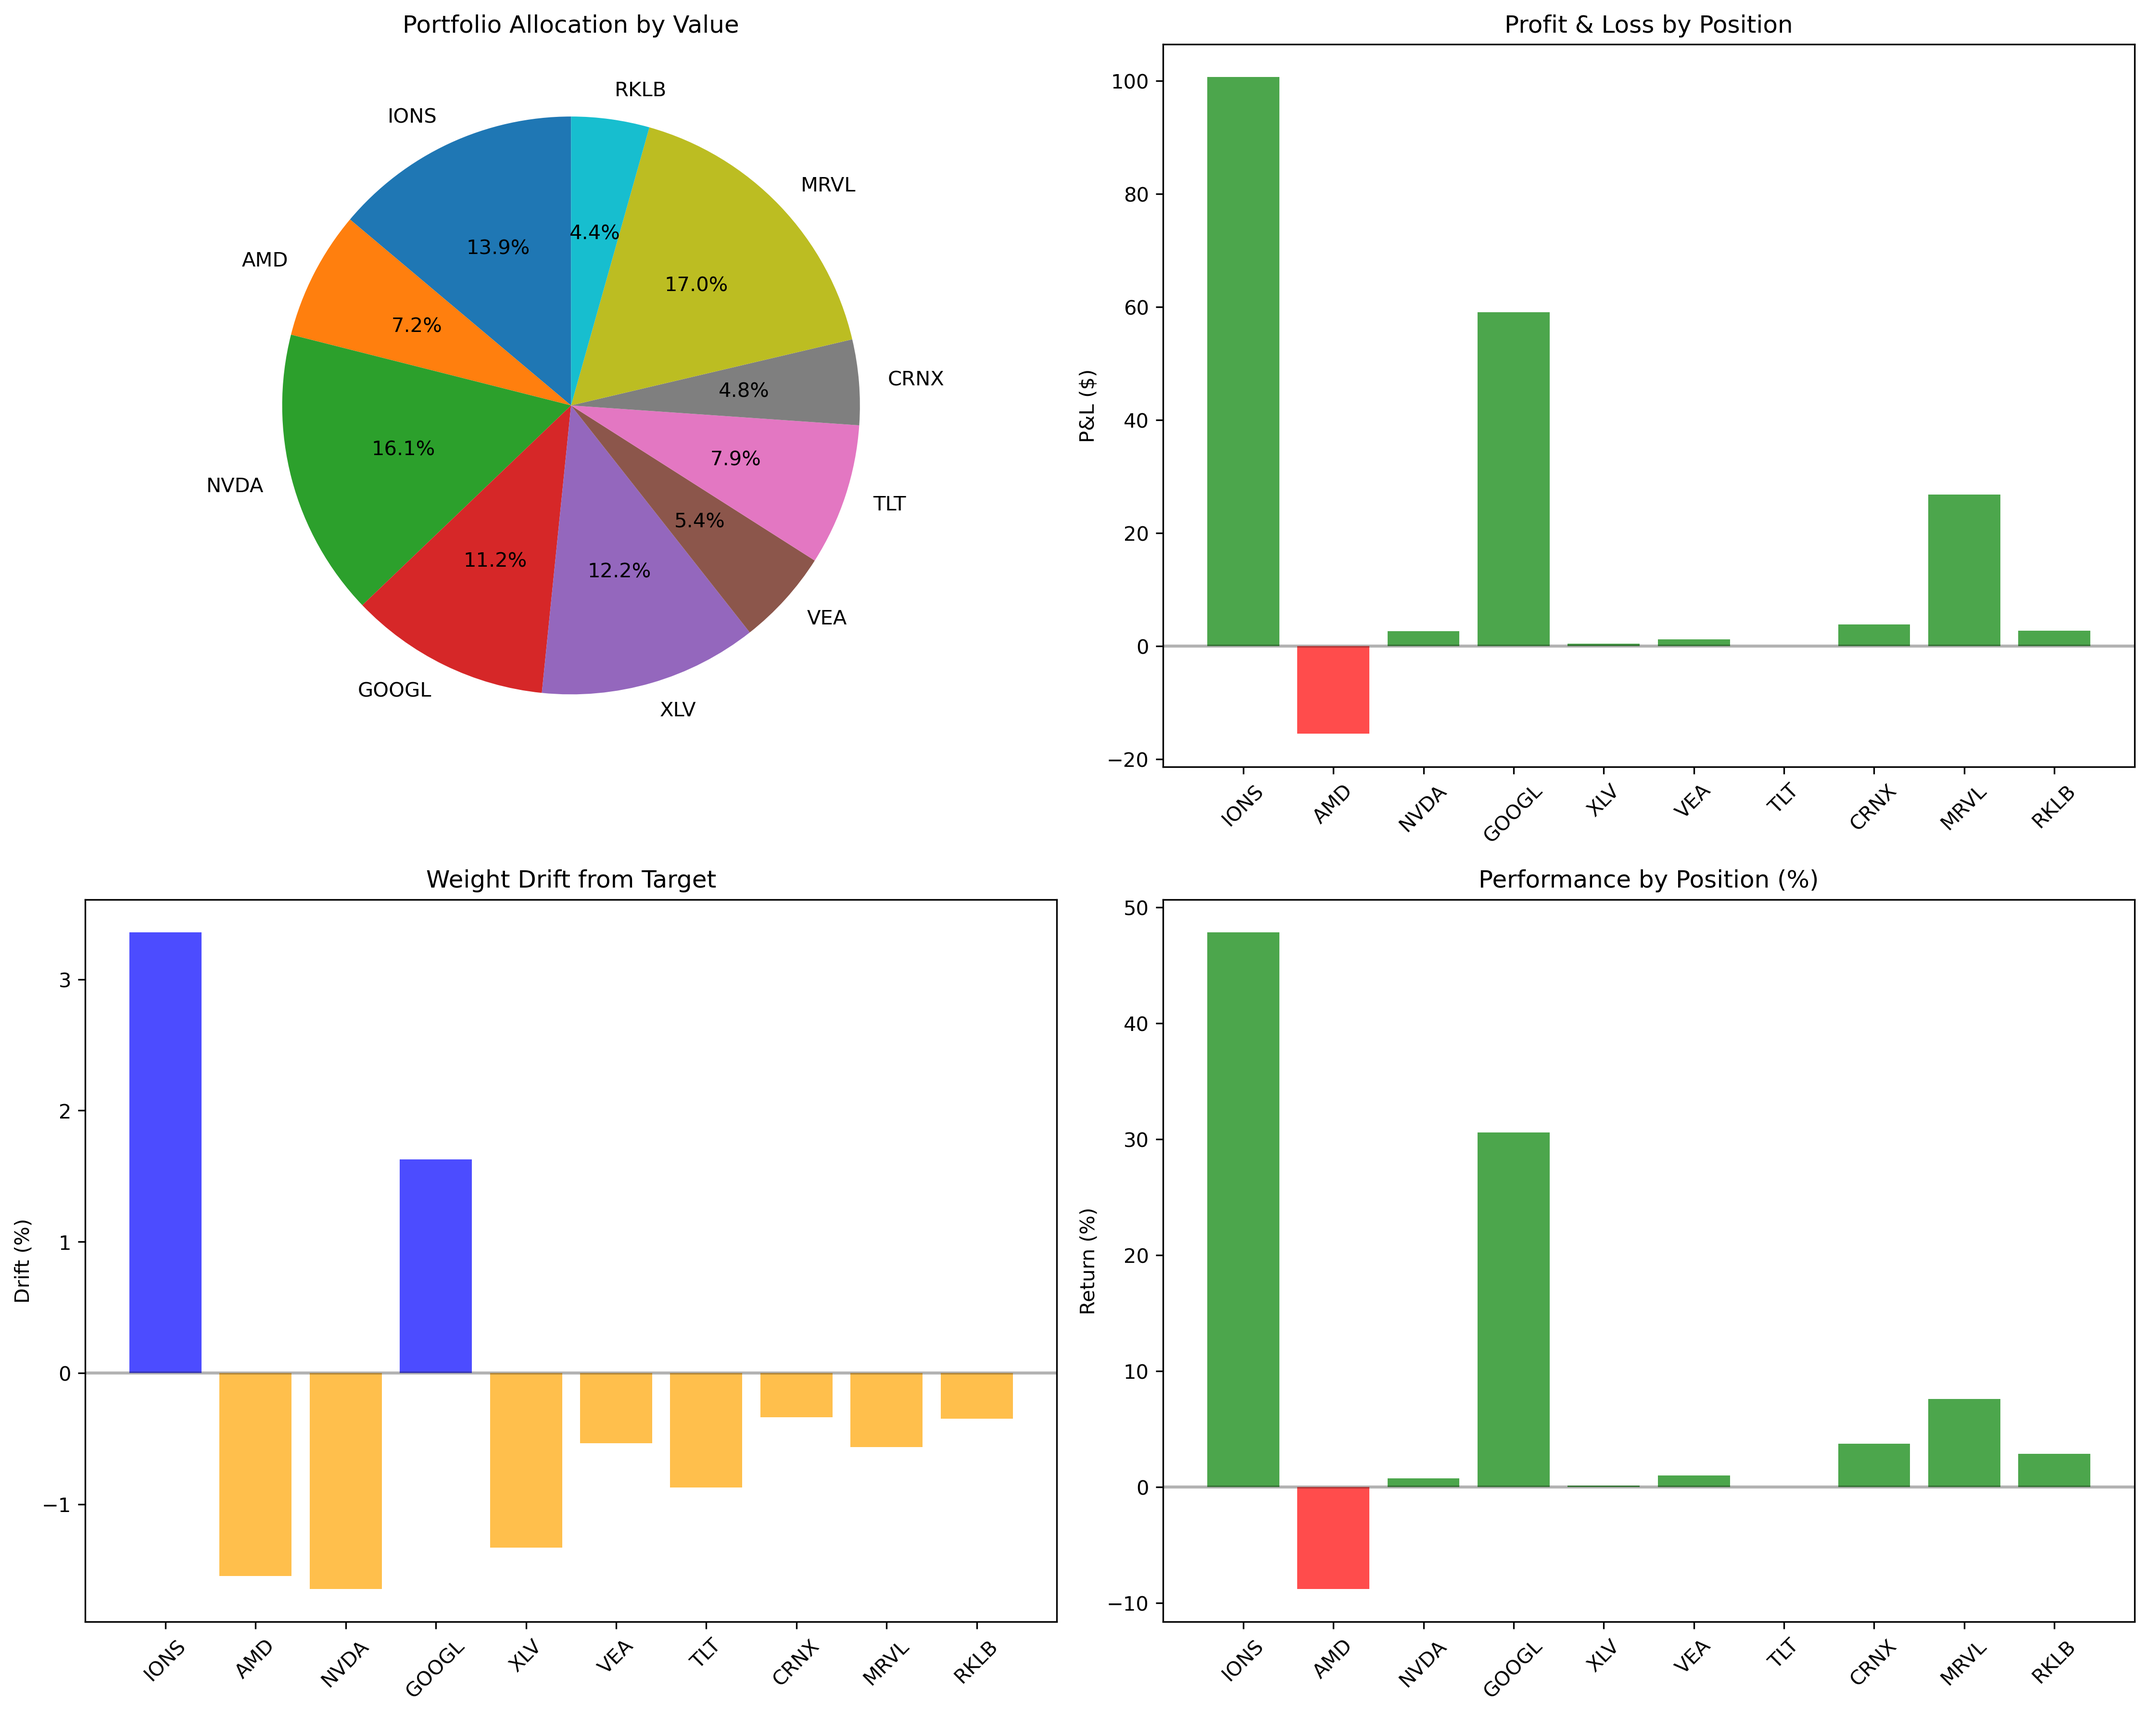
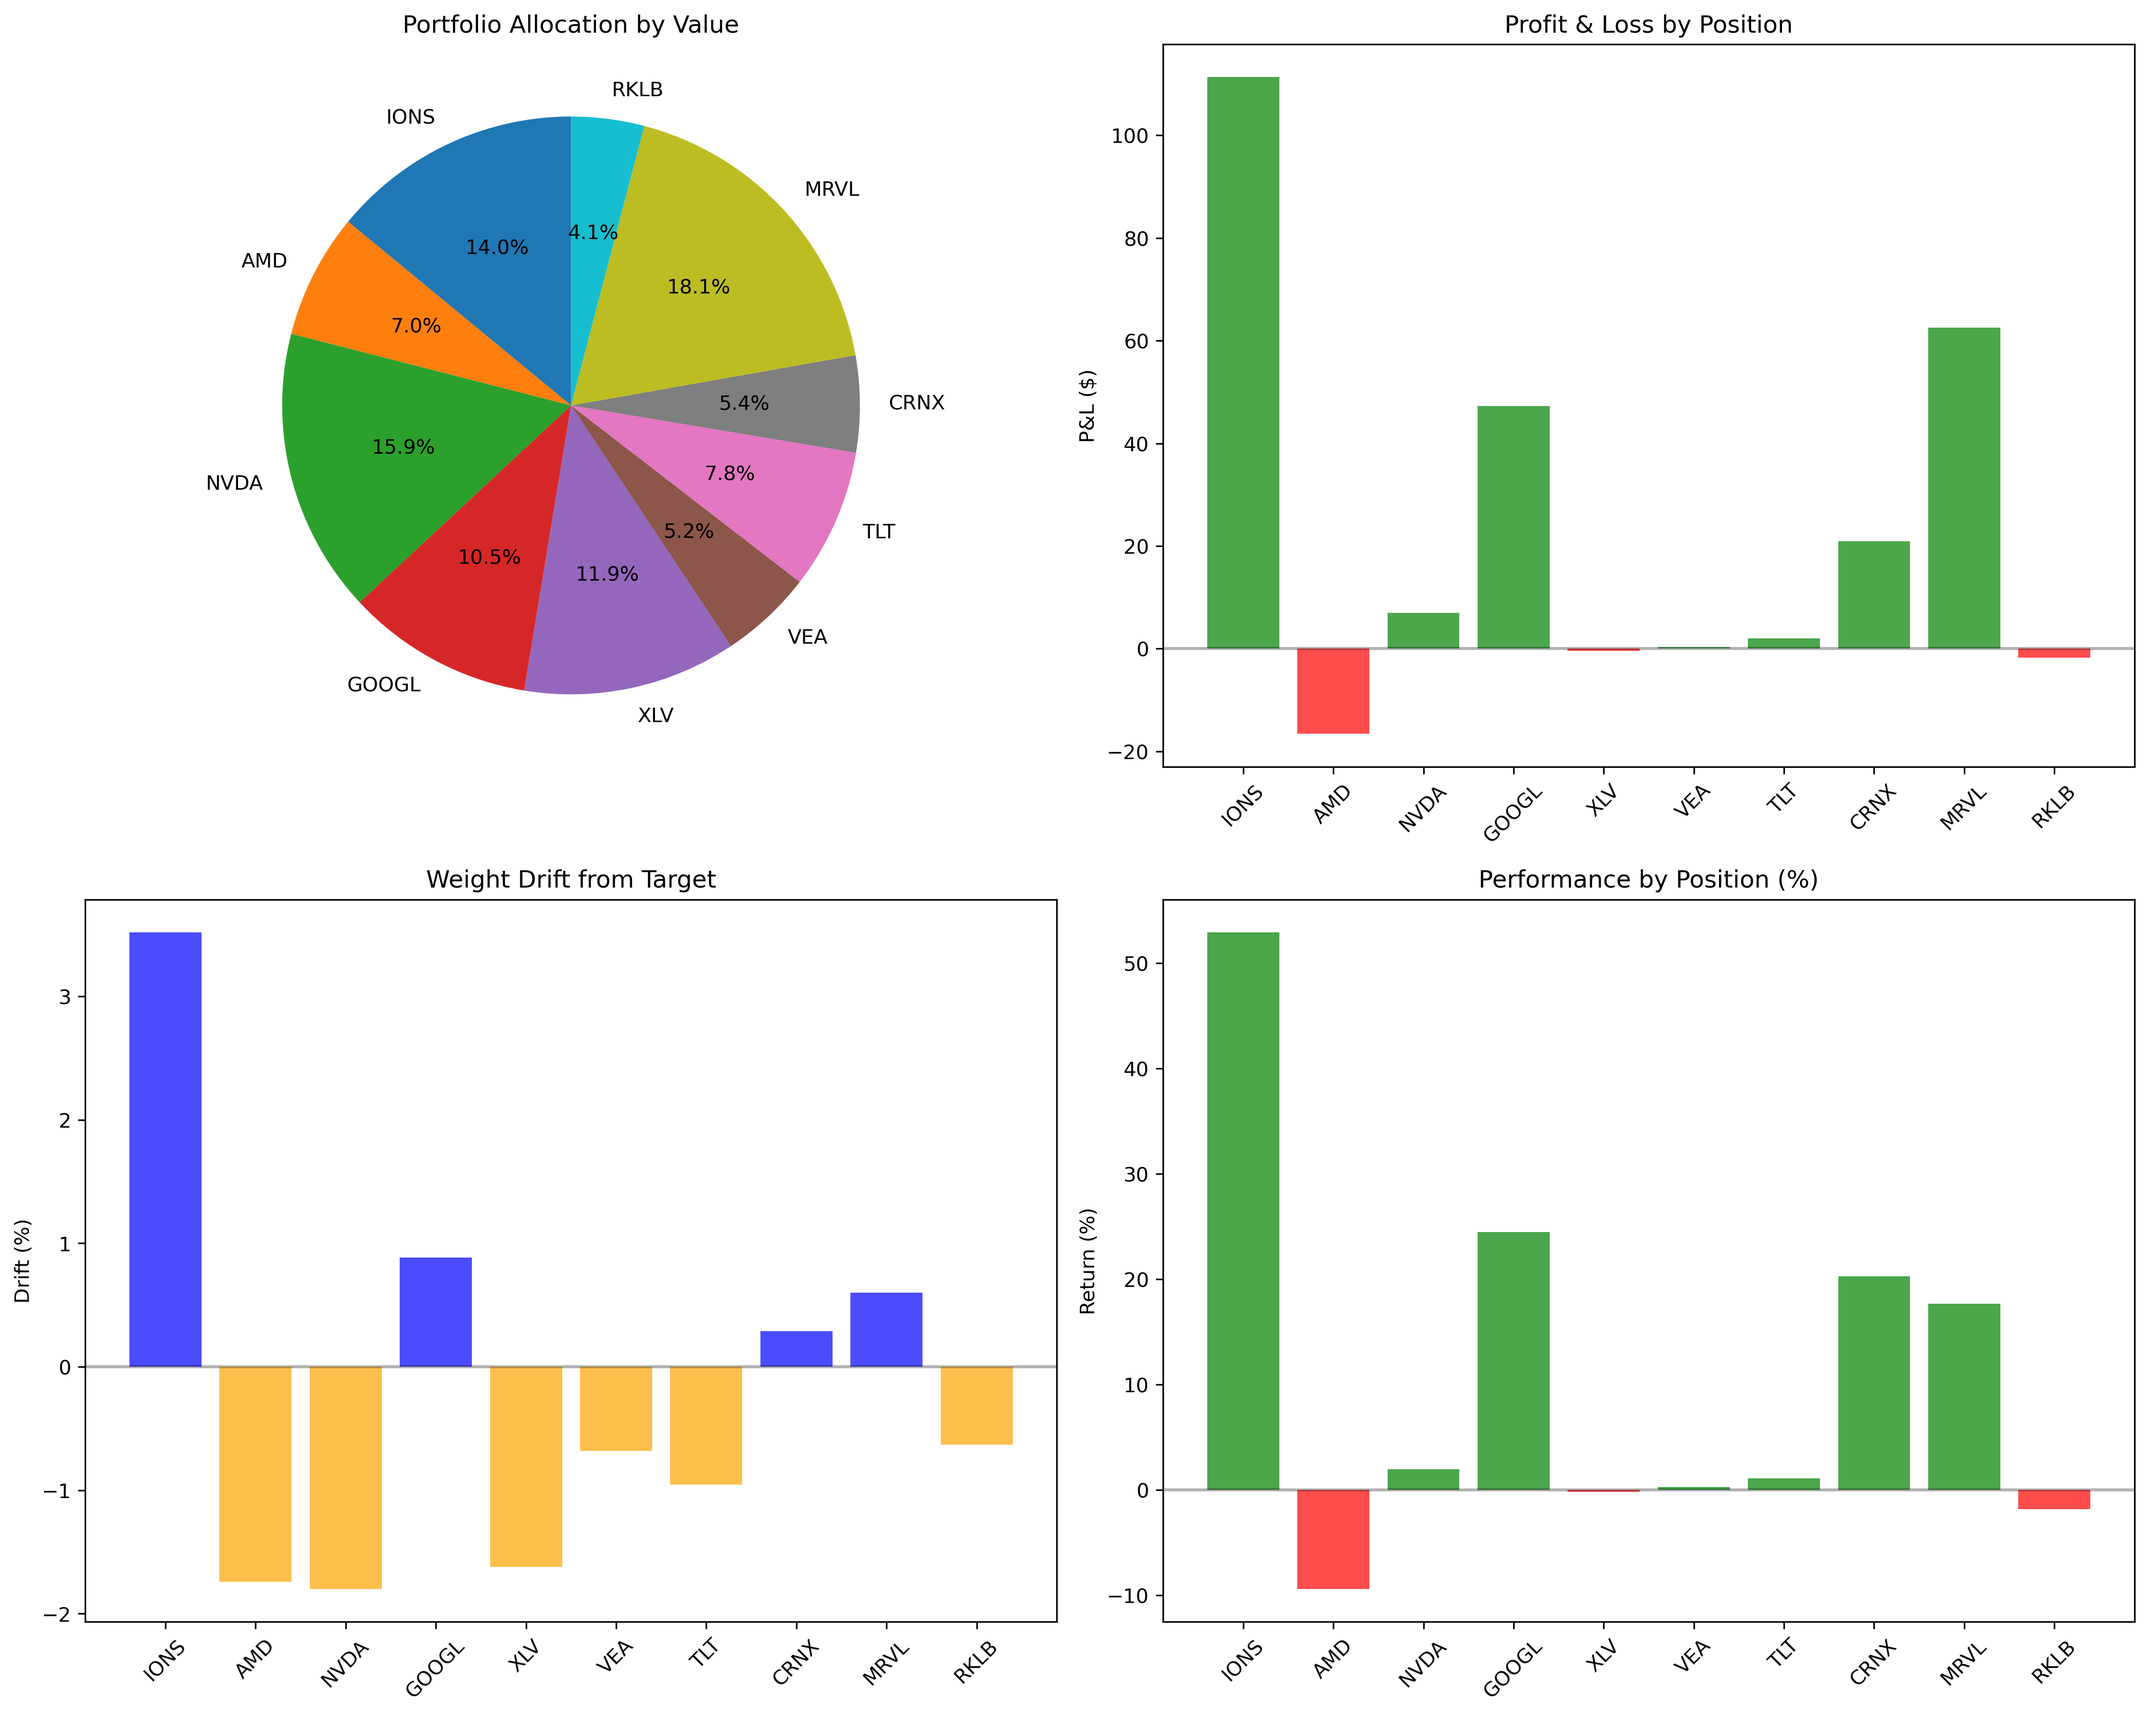
New daily run

diff --git a/Trading/LLM Managed Portfolio/daily_portfolio_analysis.md b/Trading/LLM Managed Portfolio/daily_portfolio_analysis.md
@@ -1,89 +1,92 @@
-# Daily Portfolio Analysis - 2025-09-23
+# Daily Portfolio Analysis - 2025-09-30
 
 ## Executive Summary
-- **Total Portfolio Value**: $2,292.81
-- **Total P&L**: $+292.81 (+14.64%)
+- **Total Portfolio Value**: $2,343.75
+- **Total P&L**: $+343.75 (+17.19%)
 - **Cash Position**: $50.22
 - **Active Positions**: 10
 
 ## Benchmark Comparison
-- **Portfolio Return**: +14.6%
+- **Portfolio Return**: +17.2%
 - **SPY Benchmark**: +3.4%
 - **IWM Benchmark**: +7.5%
 
 ## Position Analysis
 ### IONS
 - Shares: 5
-- Current Price: $62.21
-- P&L: $+100.68 (+47.86%)
-- Portfolio Weight: 13.6%
-- Weight Drift: +3.4%
+- Current Price: $64.34
+- P&L: $+111.35 (+52.93%)
+- Portfolio Weight: 13.7%
+- Weight Drift: +3.5%
 
 ### AMD
 - Shares: 1
-- Current Price: $161.25
-- P&L: $-15.53 (-8.78%)
-- Portfolio Weight: 7.0%
-- Weight Drift: -1.5%
+- Current Price: $160.20
+- P&L: $-16.58 (-9.38%)
+- Portfolio Weight: 6.8%
+- Weight Drift: -1.7%
 
 ### NVDA
 - Shares: 2
-- Current Price: $180.38
-- P&L: $+2.61 (+0.73%)
-- Portfolio Weight: 15.7%
-- Weight Drift: -1.6%
+- Current Price: $182.58
+- P&L: $+7.00 (+1.95%)
+- Portfolio Weight: 15.6%
+- Weight Drift: -1.8%
 
 ### GOOGL
 - Shares: 1
-- Current Price: $252.04
-- P&L: $+59.04 (+30.59%)
-- Portfolio Weight: 11.0%
-- Weight Drift: +1.6%
+- Current Price: $240.25
+- P&L: $+47.25 (+24.48%)
+- Portfolio Weight: 10.3%
+- Weight Drift: +0.9%
 
 ### XLV
 - Shares: 2
-- Current Price: $137.14
-- P&L: $+0.37 (+0.14%)
-- Portfolio Weight: 12.0%
-- Weight Drift: -1.3%
+- Current Price: $136.74
+- P&L: $-0.43 (-0.16%)
+- Portfolio Weight: 11.7%
+- Weight Drift: -1.6%
 
 ### VEA
 - Shares: 2
-- Current Price: $60.13
-- P&L: $+1.17 (+0.98%)
-- Portfolio Weight: 5.2%
-- Weight Drift: -0.5%
+- Current Price: $59.72
+- P&L: $+0.33 (+0.28%)
+- Portfolio Weight: 5.1%
+- Weight Drift: -0.7%
 
 ### TLT
 - Shares: 2
-- Current Price: $88.85
-- P&L: $-0.02 (-0.01%)
-- Portfolio Weight: 7.8%
-- Weight Drift: -0.9%
+- Current Price: $89.86
+- P&L: $+2.00 (+1.13%)
+- Portfolio Weight: 7.7%
+- Weight Drift: -1.0%
 
 ### CRNX
 - Shares: 3
-- Current Price: $35.67
-- P&L: $+3.86 (+3.74%)
-- Portfolio Weight: 4.7%
-- Weight Drift: -0.3%
+- Current Price: $41.36
+- P&L: $+20.92 (+20.29%)
+- Portfolio Weight: 5.3%
+- Weight Drift: +0.3%
 
 ### MRVL
 - Shares: 5
-- Current Price: $76.04
-- P&L: $+26.83 (+7.59%)
-- Portfolio Weight: 16.6%
-- Weight Drift: -0.6%
+- Current Price: $83.18
+- P&L: $+62.53 (+17.69%)
+- Portfolio Weight: 17.7%
+- Weight Drift: +0.6%
 
 ### RKLB
 - Shares: 2
-- Current Price: $49.01
-- P&L: $+2.72 (+2.85%)
-- Portfolio Weight: 4.3%
-- Weight Drift: -0.3%
+- Current Price: $46.79
+- P&L: $-1.72 (-1.80%)
+- Portfolio Weight: 4.0%
+- Weight Drift: -0.6%
+
+## Alerts & Recommendations
+- **HIGH**: IONS up +52.9% - consider taking profits
 
 ## Recent Performance Trend
 *Historical performance data will be populated as data accumulates*
 
 ---
-*Generated: 2025-09-23 10:32:44*
+*Generated: 2025-09-30 09:55:52*
